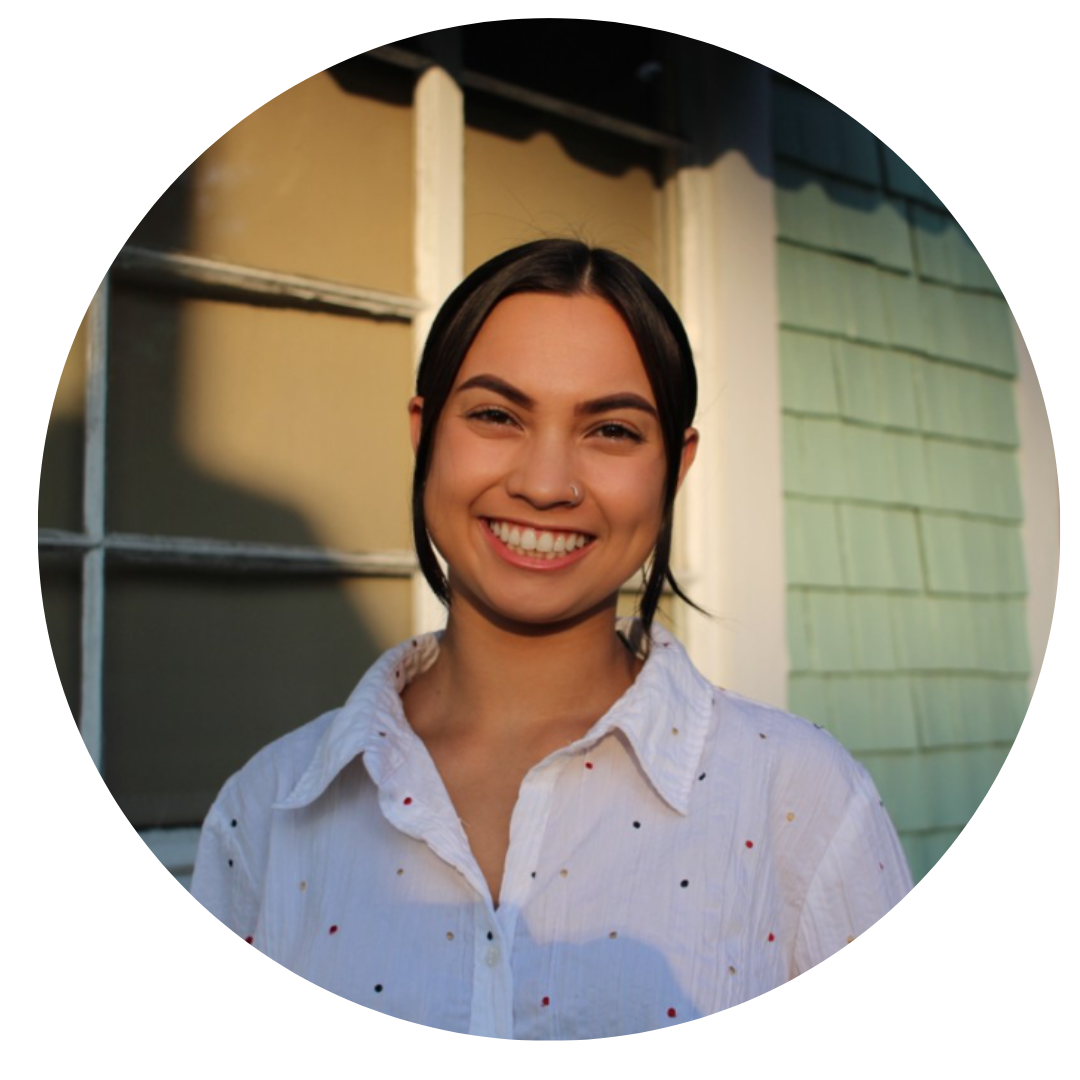
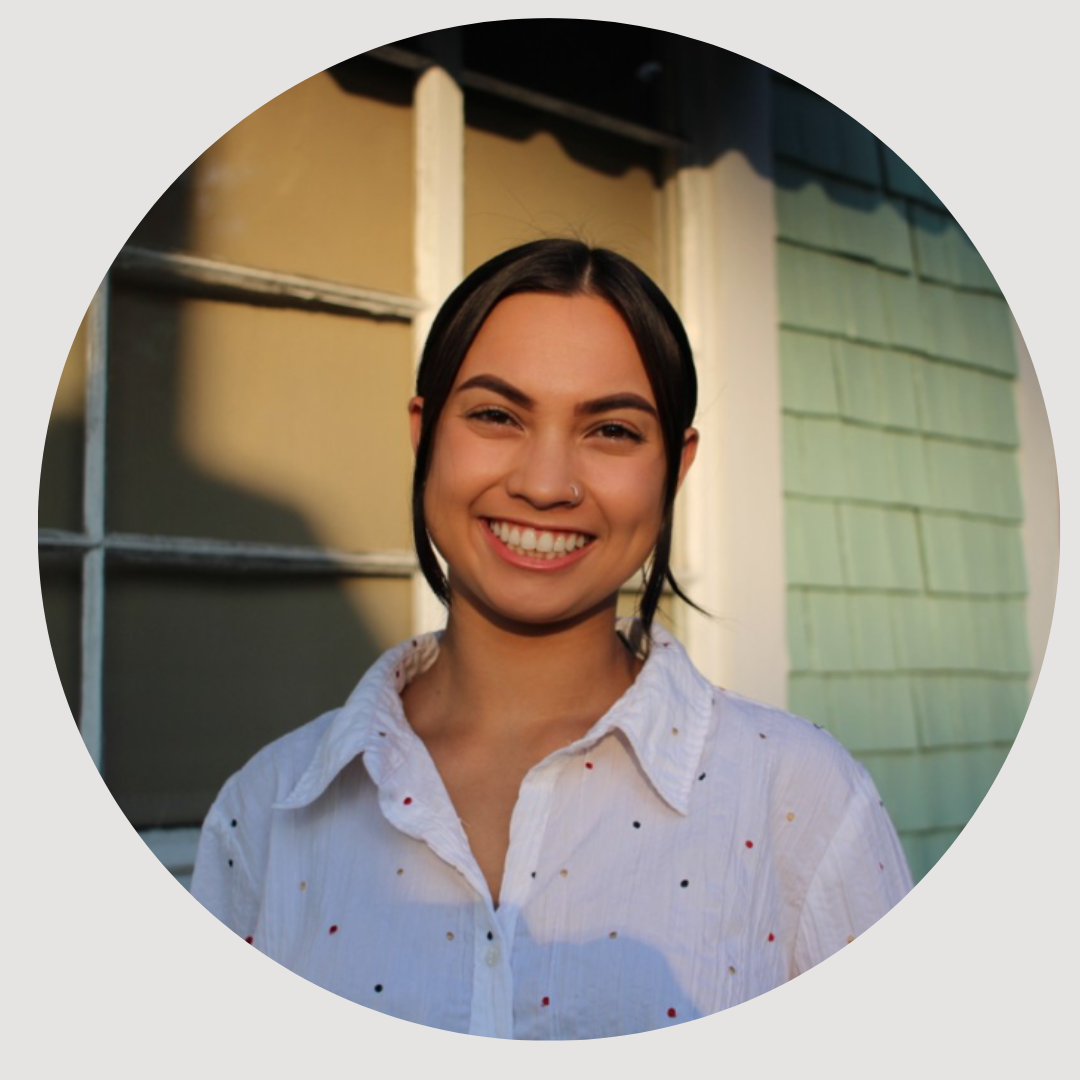
Added Section Title

Changed region(s): [[0.0, 0.0, 1.0, 1.0]]

diff --git a/src/components/ContactSection.js b/src/components/ContactSection.js
@@ -1,8 +1,9 @@
 import React from "react";
 import styled from "styled-components";
+import { MdEmail, MdLocalPhone } from 'react-icons/md';
+import ContactForm from "./ContactForm";
 import ContactInfo from "./ContactInfo";
 import SectionTitle from "./SectionTitle";
-import ContactForm from "./ContactForm";
 
 const ContactSectionStyle = styled.div`
   padding: 10rem 0;
@@ -55,8 +56,8 @@ export default function ContactSection() {
         <SectionTitle heading="Contact" subheading="Get in touch!" />
         <div className="contact_wrapper">
           <div className="left">
-            <ContactInfo icon={<mdLocalPhone />} text="(772) 302-0824" />
-            <ContactInfo icon={<mdEmail />} text="alyssa20lopez@gmail.com" />
+            <ContactInfo icon={<MdLocalPhone />} text="(772) 302-0824" />
+            <ContactInfo icon={<MdEmail />} text="alyssa20lopez@gmail.com" />
             <ContactInfo text="Raleigh, North Carolina" />
           </div>
           <div className="right">

diff --git a/src/components/SectionTitle.js b/src/components/SectionTitle.js
@@ -1,0 +1,37 @@
+import React from 'react';
+import styled from 'styled-components';
+
+const SectionTitleStyle = styled.div`
+  text-align: center;
+  p {
+    font-family: 'RobotoMono Regular';
+    font-size: 2rem;
+  }
+  h2 {
+    font-family: 'Montserrat Bold';
+    font-size: 6rem;
+    margin-top: 0.5rem;
+    text-transform: uppercase;
+  }
+  @media only screen and (max-width: 768px) {
+    text-align: center;
+    p {
+      font-size: 1.2rem;
+    }
+    h2 {
+      font-size: 3.6rem;
+    }
+  }
+`;
+
+export default function SectionTitle({
+  subheading = 'Need Subheading',
+  heading = 'need heading',
+}) {
+  return (
+    <SectionTitleStyle className="section-title">
+      <p>{subheading}</p>
+      <h2>{heading}</h2>
+    </SectionTitleStyle>
+  );
+}

diff --git a/src/pages/Contact.js b/src/pages/Contact.js
@@ -1,6 +1,7 @@
 import React from "react";
 import ContactInfo from "../components/ContactInfo";
 import ContactSection from "../components/ContactSection";
+import ContactForm from "../components/ContactForm";
 
 const Contact = () => {
   return (
@@ -11,7 +12,7 @@ const Contact = () => {
             <ContactInfo />
           </div>
           <div className="right">
-            Contact Form
+            <ContactForm />
           </div>
         </div>
       </div>

diff --git a/src/styles.css b/src/styles.css
@@ -1,9 +1,11 @@
 * {
   box-sizing: border-box;
+  font-family:'Lucida Grande', 'Lucida Sans', Arial, sans-serif
 }
 
 body {
   margin: 0;
+  background-color: #E5E4E2;
 }
 
 .container {
@@ -12,13 +14,13 @@ body {
 }
 
 .nav {
-  background-color: #333;
+  background-color: #708090;
   color: white;
   display: flex;
   justify-content: space-between;
   align-items: stretch;
   gap: 2rem;
-  padding: 0 1rem;
+  padding: 1rem 1rem;
 }
 
 .title {

diff --git a/src/styles/Footer.css b/src/styles/Footer.css
@@ -1,13 +1,11 @@
 .footer {
-  width: 100%;
-  height: 200px;
-  background-color: #333;
+  background-color: #708090;
+  color: white;
   display: flex;
   justify-content: center;
-  align-items: center;
-  flex-direction: column;
-  padding-top: 10px;
-  margin-top: 200px;
+  gap: 2rem;
+  padding: 1rem;
+  margin-top: 175px;
 }
 
 .socialMedia svg {

diff --git a/src/App.js b/src/App.js
@@ -5,7 +5,7 @@ import Contact from "./pages/Contact";
 import Portfolio from "./pages/Portfolio";
 import Resume from "./pages/Resume";
 import { Route, Routes } from "react-router-dom";
-import './styles/App.css'
+import "./styles.css"
 
 function App() {
   return (

diff --git a/src/pages/Resume.js b/src/pages/Resume.js
@@ -1,4 +1,5 @@
 import React from 'react';
+import "../styles/Footer.css";
 
 const Resume = () => {
   return (
